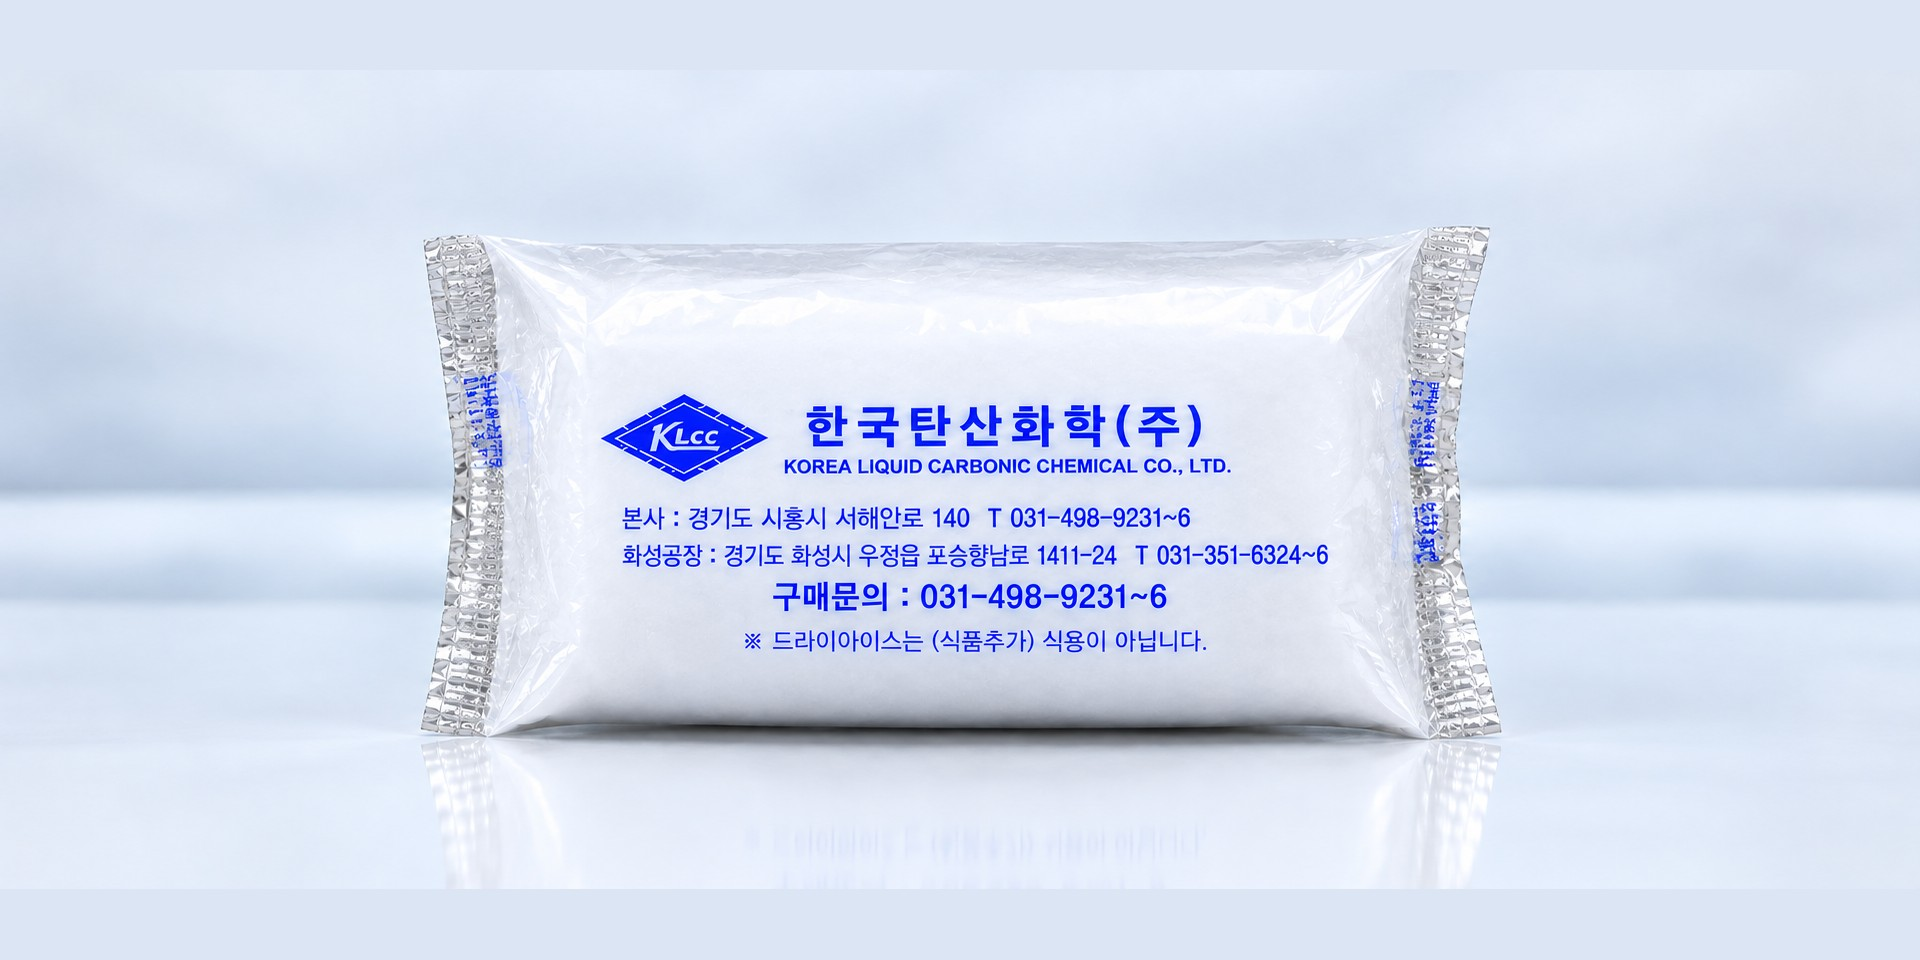
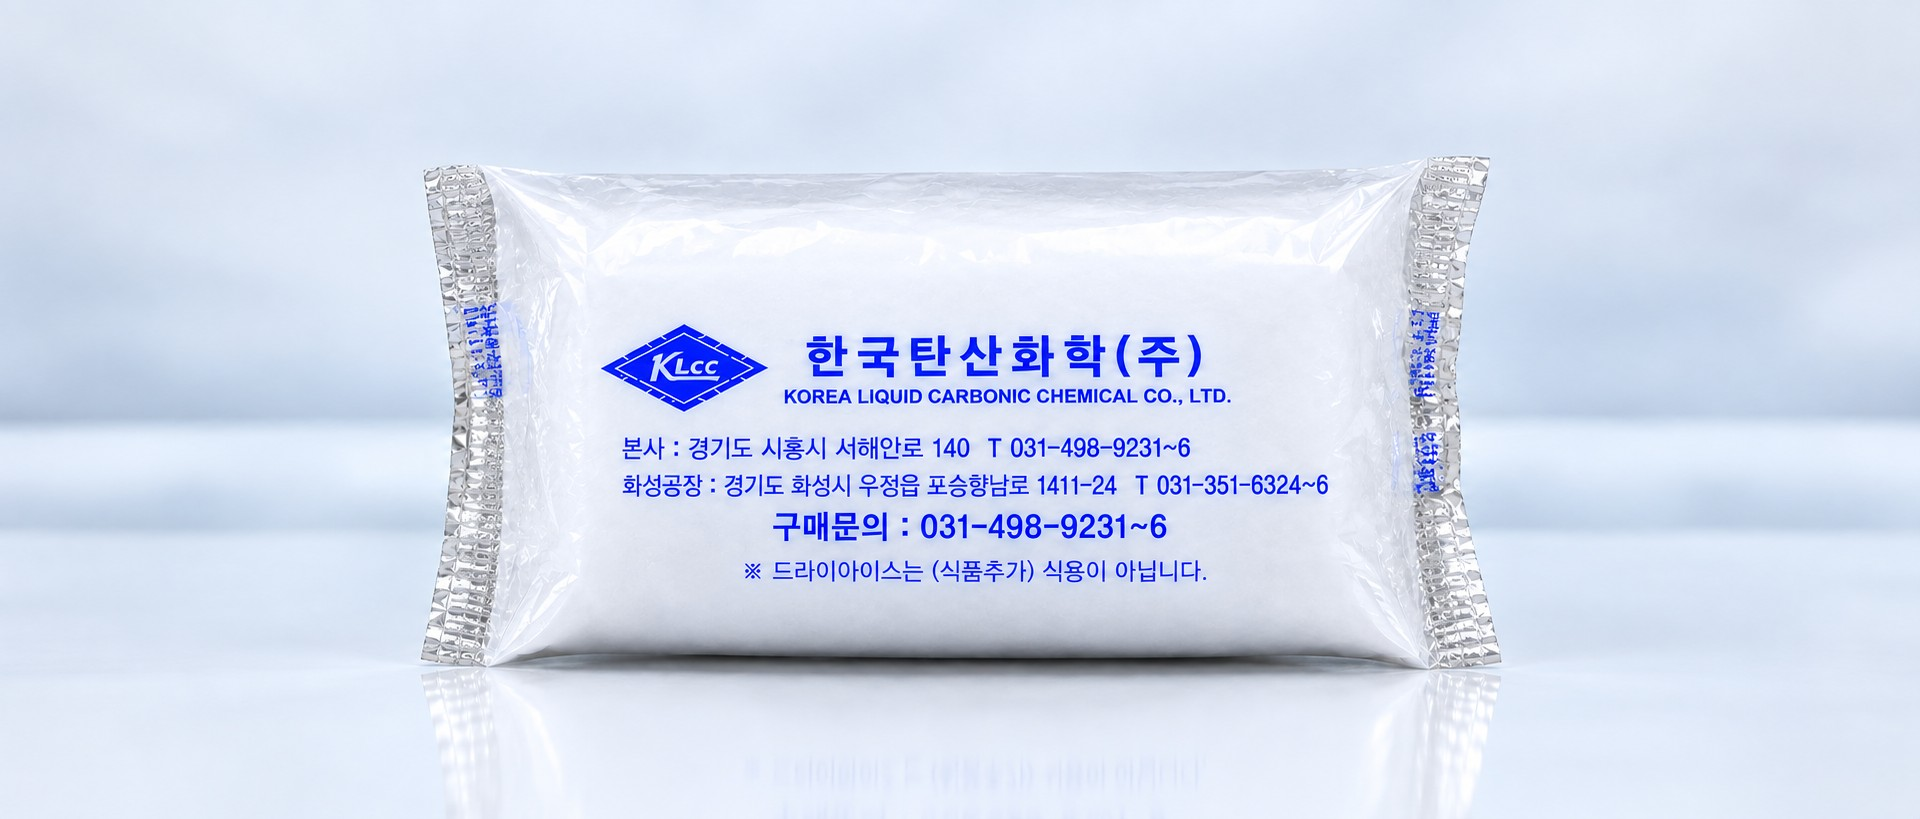
드라이아이스 너겟 실사 사진 확대: 원본 비율(2.34:1) 사용해 cover가 상하를 채우도록(봉투 확대·프레임 배경 가림). ice-nugget-pack ?v=20260911d

diff --git a/products-ice.html b/products-ice.html
@@ -287,7 +287,7 @@
                 <h3 class="specpanel__title">너겟 <em>(NUGGET)</em></h3>
                 <p class="specpanel__desc">소형 직사각형 형태로 성형되어 취급과 소분이 편리한 드라이아이스입니다.</p>
                 <div class="icespec-figs">
-                  <div class="icespec-figs__photo"><img src="assets/images/site/ice-nugget-pack.jpg?v=20260911c" alt="한국탄산화학㈜ 너겟 드라이아이스 포장 제품" loading="lazy"></div>
+                  <div class="icespec-figs__photo"><img src="assets/images/site/ice-nugget-pack.jpg?v=20260911d" alt="한국탄산화학㈜ 너겟 드라이아이스 포장 제품" loading="lazy"></div>
                   <figure class="icespec-figs__dim icespec-figs__dim--titled">
                     <figcaption class="icespec-figs__dimtitle">개별 너겟 규격</figcaption>
                     <img src="assets/images/site/icespec/dim-nugget.png?v=20260911" alt="개별 너겟 규격 125×78×45mm" loading="lazy">
